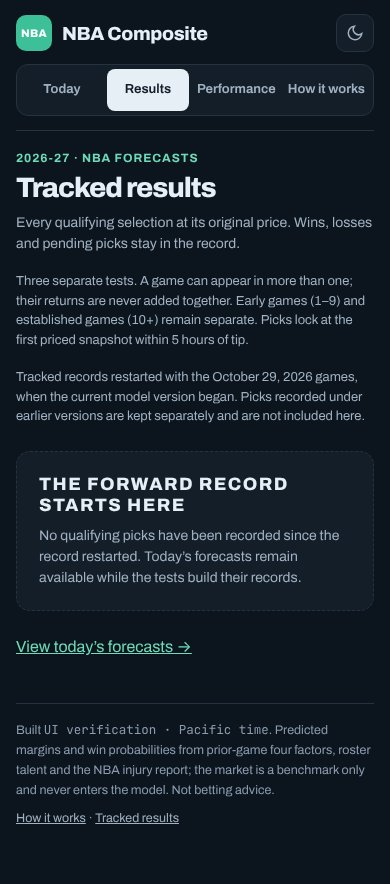
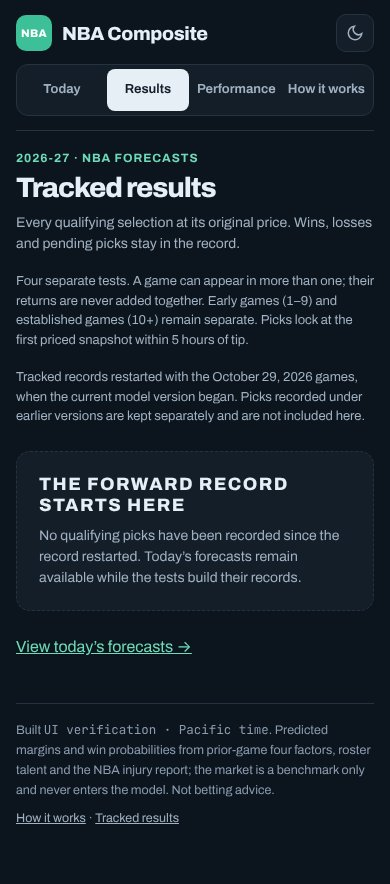
Edge floors and O/U test: docs, UI fixture and screenshots
MODEL.md describes the totals model and the floors; the guidelines and the
research history record the amendment. The browser check's fixture locks an
O/U pick; desktop and mobile screenshots are refreshed.

Claude-Session: https://claude.ai/code/session_01Tymo9DCw7W9ZzKSQ8WP3az

Changed region(s): [[0.0308, 0.3054, 0.9538, 0.3665]]

diff --git a/research/check_public_ui.py b/research/check_public_ui.py
@@ -45,6 +45,12 @@ def fixture():
             lock_p_home=.8, lock_book='dk', lock_home_ml=-150, lock_away_ml=130,
             lock_q_home=.6, lock_spread=-6, lock_home_spread_odds=-110,
             lock_away_spread_odds=-110,
+            # the O/U test (edge floors and O/U amendment): the model leans over
+            pre_ou_line=205.5, pre_ou_over=-110, pre_ou_under=-110, ou_total=212.0,
+            ou_sigma=18.5, ou_p_over=.62, ou_tag='totals_hl25_form5_ou1',
+            lock_ou_snapshot_utc='2026-11-19T23:00:00Z', lock_ou_tag='totals_hl25_form5_ou1',
+            lock_ou_total=212.0, lock_ou_p_over=.62, lock_ou_book='dk', lock_ou_line=205.5,
+            lock_ou_over=-110, lock_ou_under=-110,
             home_won=np.nan if won is None else won,
             home_pts=np.nan if margin is None else 100+margin,
             away_pts=np.nan if margin is None else 100)
@@ -106,7 +112,7 @@ def main():
                     assert page.locator('html').get_attribute('data-theme') in ('dark','light')
                     page.screenshot(path=str(out/f'{device}-fixture-tracked.jpg'),full_page=True,type='jpeg',quality=85)
                     page.goto(f'{base}/fixture/results.html')
-                    assert page.locator('[data-result-row]').count()==12
+                    assert page.locator('[data-result-row]').count()==16
                     for result in ('Win','Loss','Push','Pending'):
                         assert page.locator('.result-badge',has_text=result).count()>0,result
                     page.get_by_label('Test',exact=True).select_option('spread')
@@ -131,8 +137,8 @@ def main():
                 live=page.locator('[data-gid="fixture-3"]')
                 live.locator('.st').filter(has_text='Q2 4:00').wait_for()
                 assert live.locator('.sc[data-side="home"]').inner_text()=='42'
-                assert live.locator('.tracked-line').count()==3
-                checks.append('Live-score overlay updated status and scores without changing three frozen selections')
+                assert live.locator('.tracked-line').count()==4
+                checks.append('Live-score overlay updated status and scores without changing four frozen selections')
                 browser.close()
         finally:
             server.shutdown()

diff --git a/MODEL.md b/MODEL.md
@@ -13,6 +13,13 @@ tip (`lock_*` columns), in new ·L rows per test × stage × season; the
 first-snapshot rows close with the last slate before the first lock. This
 changes the bet's timing, not prediction maths (no tag).
 
+**Edge floors and O/U test** (owner's decision 2026-10-29; CLAUDE.md
+"Edge floors and O/U test amendment"): the public spread and value-favourite
+tests are H5·3 (edge ≥ 3 points) and H2·F·5 (P − q ≥ 0.05), beside H4; a
+separate totals model (`totals.py`, tag `totals_hl25_form5_ou1`) gives each
+game's total and P(over), and the O/U test tracks its side at the 5 h lock
+when |P(over) − q| ≥ 0.05. "Totals (O/U) model" at the end.
+
 **Model-family reset** (owner's decision 2026-10-29; CLAUDE.md "Model-family
 reset amendment"): v11 starts a new model family. From the 2026-10-29 slate
 the tests' records are the ·L·v11 rows, which also require a lock tag ending
@@ -773,6 +780,33 @@ Evidence: by 5 h before tip the report has flagged 78–84% of eventual
 rotation-player absences, against 56–57% at the overnight first snapshot
 (23–26% on back-to-backs); the forecast at 5 h costs +0.0016 ± 0.0016 log
 loss against the 30-minute report, at 18 h +0.0036 ± 0.0023.
+
+## Totals (O/U) model (owner's decision, 2026-10-29)
+
+`totals.py` applies v11's recipe to the final total. Per team, from its
+Basketball-Reference log, games strictly before the slate: decayed
+(half-life 25, and 5 for a form term) pace and points per 100 possessions
+scored and allowed, each blended (n current + 10 prior) / (n + 10) with a
+prior of last season's value regressed 40% to its league and re-centred on
+this season's; the league's level to date (last season counting as 30
+team-games). naive = expected possessions (pace_h × pace_a / league) ×
+both sides' matchup efficiency (offence × opposing defence / league). Fit
+by least squares on games 1+ of 2016-17 .. 2025-26 (2019-20 left out), on
+total − league:
+
+    total − league = a + b (naive25 − league) + c (naive5 − naive25) + d b2b + e phase
+
+P(over) = 1 − Φ((line − T) / σ), σ the residual sd of games 1–9 or 10+.
+Fit model refits `model/totals.json`. The build writes the total, σ,
+P(over) and tag beside the pregame book's total (`pre_ou_*`, `ou_*`);
+`first_ou_*` and `lock_ou_*` are write-once like `first_*` / `lock_*`, on
+their own condition (a model total and a main-line total, both prices
+−135..+115); grading writes the closing book's open / close total.
+`analysis.OU_TESTS` grade the side (a push returns the stake), CLV in
+points. Research: `research/totals_model.py`, `research/totals_improve.py`
+(arm "form", T*; `tests/test_ou_floors.py` pins the features to it). In
+hindsight the model is level with the opening total and worse than the
+closing one; no O/U rule beat its null at the close.
 
 ## Version rule
 

diff --git a/docs/model_guidelines.md b/docs/model_guidelines.md
@@ -65,6 +65,15 @@ before activation. The games 1–9 rows accept `_v11` tags too.
 tests bet the first priced snapshot within 5 h of tip, in new ·L rows; the
 first-snapshot rows close at the lock's first slate. Never pooled.
 
+**Edge floors and O/U test** (owner's decision 2026-10-29, CLAUDE.md
+amendment): the public tests are H5·3 (spread edge ≥ 3 points), H2·F·5
+(value favourite with P − q ≥ 0.05), H4 and a new O/U test (the totals
+model's side when |P(over) − q| ≥ 0.05), all at the 5 h lock, v11 family,
+by stage and season. The floors follow cost (the opening disagreement is
+~0.3–0.5 right, so a gap needs ~0.05 to clear half the hold; spread line
+moves appear only from ~3 points), not a return scan. The old-floor v11 rows
+continue internally as supersets. Never pooled.
+
 **Model-family reset** (owner's decision 2026-10-29, CLAUDE.md amendment):
 v11 starts a new model family and the public records restart with it. From
 the 2026-10-29 slate the tests run in v11-family rows (·L·v11) that need a

diff --git a/docs/research_history.md b/docs/research_history.md
@@ -798,3 +798,11 @@ registration commit: `2e301d3`, 2026-10-23T19:46:58Z.
   median earlier closing totals add nothing to the line (weight +0.05 ±
   0.16 … −0.07 ± 0.20, M2); NFL-style medians of the model's own total
   bands add nothing beyond it (M3). Research only.
+- Edge floors and the O/U test go live (owner's decision, CLAUDE.md
+  amendment registered 2026-10-29T16:13:38Z before any v11 lock). Public
+  tests: H5·3 (spread ≥ 3 points), H2·F·5 (value favourite, P − q ≥ 0.05),
+  H4, and OU (the totals model T*, `totals.py`, side when |P(over) − q| ≥
+  0.05), at the 5 h lock. Evidence for the floors: CLV toward the opening
+  bets rises with the gap in both priced seasons (value favourites +0.35 →
+  +2.12 / +0.85 → +3.57 pp from gaps < 0.02 to ≥ 0.08; spread ~0.1 pts below
+  3 points, +0.65 / +0.92 from 3); ROI by band is noise and chose nothing.
